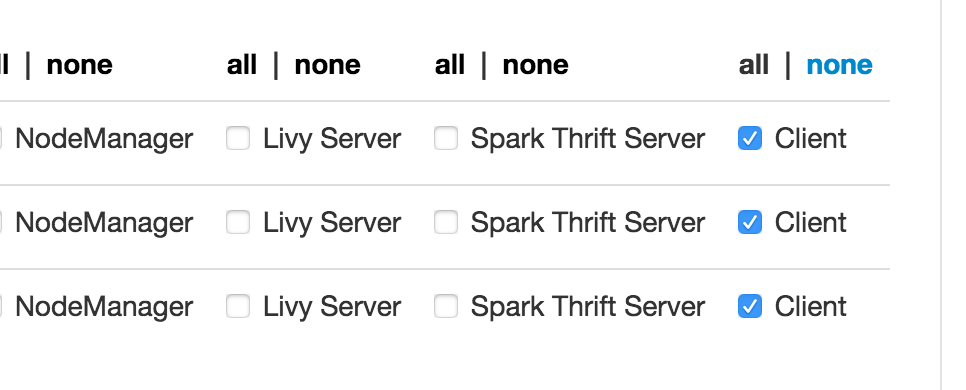
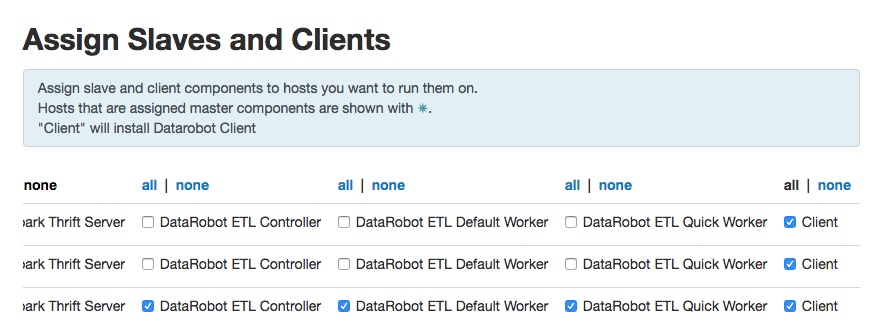
Add ETL roles to Ambari (#237)

diff --git a/installation/ambari-install.md b/installation/ambari-install.md
@@ -197,7 +197,7 @@ http://[IP OF SIMPLE WEBSERVER]:[SERVER PORT]/DataRobot-[PARCEL VERSION].parcel
 
 4. Select where to install DataRobot Master and click **Next**.
 
-5. Select all YARN nodes as clients and click **Next**:
+5. Select all YARN nodes as clients and nodes for ETL roles. Then click **Next**:
 <img src="images/ambari-select-yarn.png" alt="" style="border: 1px solid black;"/>
 
 6. Provide the URL to the parcel package in the `datarobot-env` configuration:
